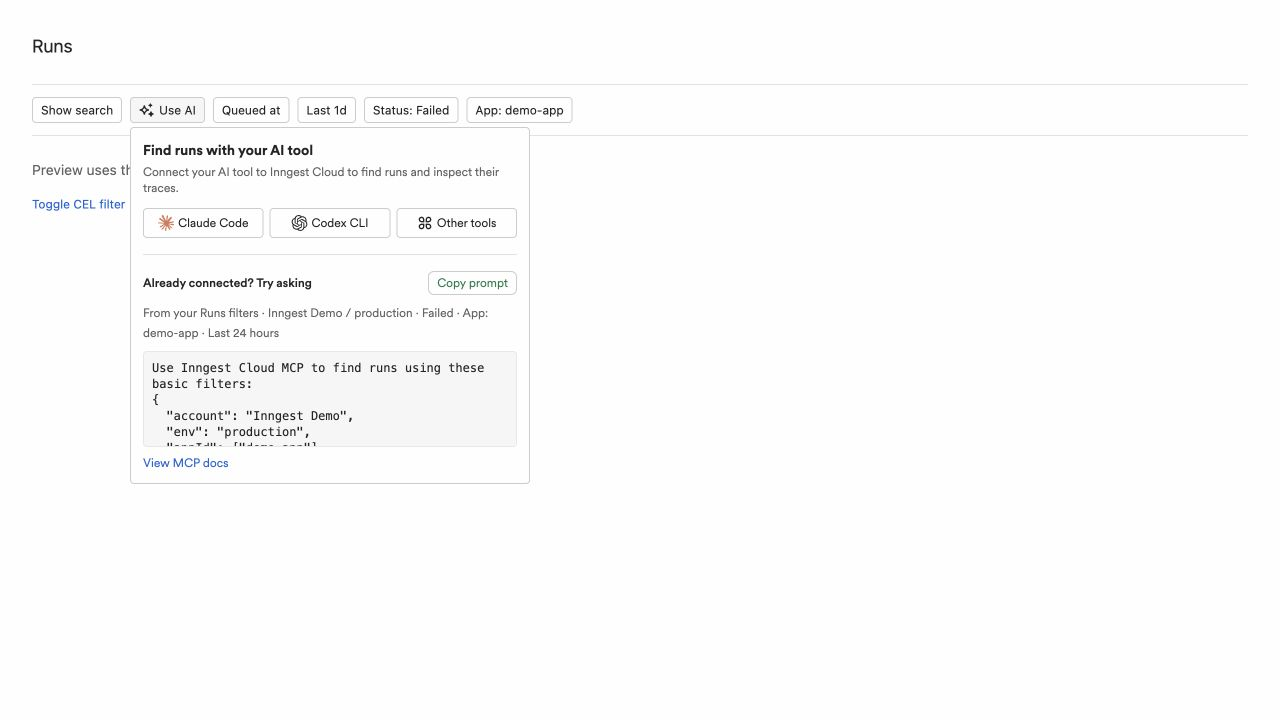
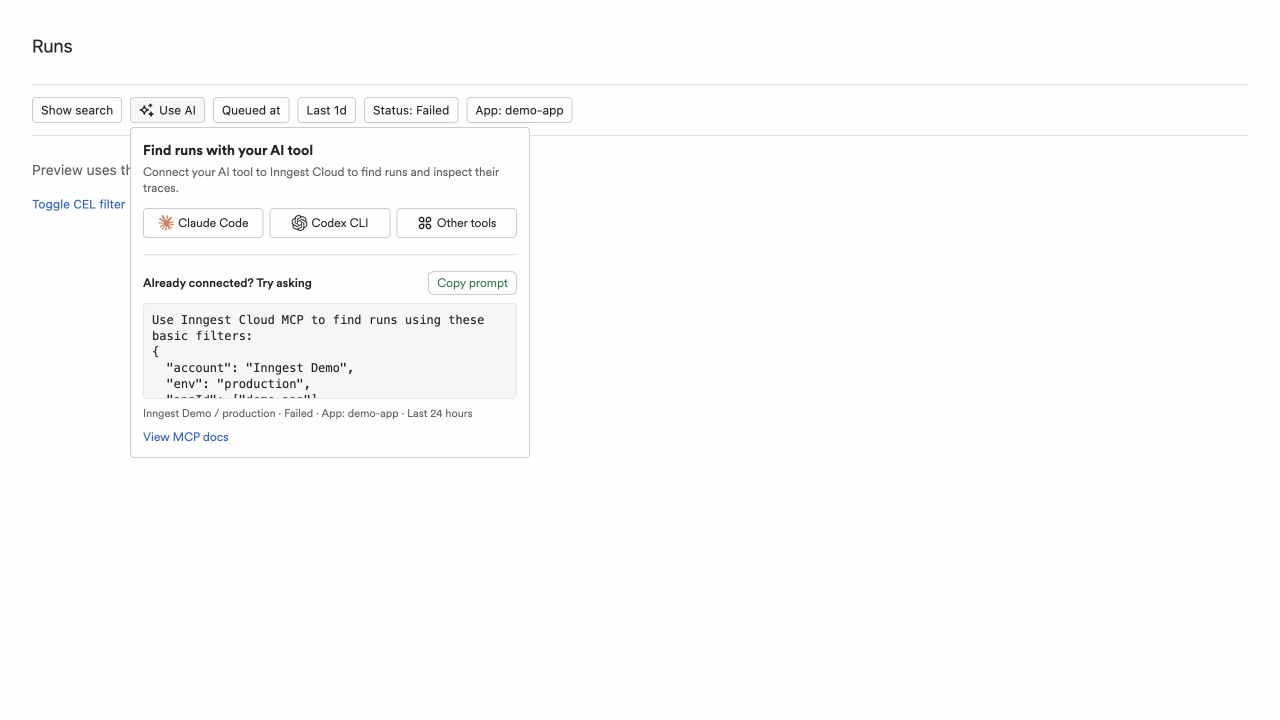
style(dashboard): place compact filter summary below AI prompt

Changed region(s): [[0.0938, 0.4278, 0.375, 0.6722]]

diff --git a/ui/apps/dashboard/src/components/Runs/AIAssist/prompt.test.ts b/ui/apps/dashboard/src/components/Runs/AIAssist/prompt.test.ts
@@ -26,7 +26,7 @@ function build(
 describe('basic run discovery prompts', () => {
   it('uses a precise default window', () => {
     expect(build({}).summary).toBe(
-      'From your Runs filters · Example account / staging · All statuses · All apps · Last 24 hours',
+      'Example account / staging · All statuses · All apps · Last 24 hours',
     );
     expect(payload(build({}).prompt!)).toMatchObject({
       timeField: 'queuedAt',
@@ -76,7 +76,7 @@ describe('basic run discovery prompts', () => {
       timeField: 'STARTED_AT',
     });
     expect(result.summary).toBe(
-      'From your Runs filters · Example account / staging · Failed, Cancelled · Apps: billing, orders · Started at · Last 2 hours',
+      'Example account / staging · Failed, Cancelled · Apps: billing, orders · Started at · Last 2 hours',
     );
     expect(payload(result.prompt!)).toEqual({
       account: 'Example account',

diff --git a/ui/apps/dashboard/src/components/Runs/AIAssist/RunAIAssistPopover.tsx b/ui/apps/dashboard/src/components/Runs/AIAssist/RunAIAssistPopover.tsx
@@ -164,9 +164,6 @@ export function RunAIAssistPopover({
             size="small"
           />
         </div>
-        {!message && result.summary && (
-          <p className="text-muted mb-2 text-xs leading-5">{result.summary}</p>
-        )}
         {message ? (
           <p role="status" className="text-muted rounded border p-2 text-xs">
             {message}
@@ -179,6 +176,11 @@ export function RunAIAssistPopover({
           >
             {result.prompt}
           </pre>
+        )}
+        {!message && result.summary && (
+          <p className="text-muted mt-1.5 text-[11px] leading-4">
+            {result.summary}
+          </p>
         )}
         {metadataError && !metadataLoading && (
           <Button

diff --git a/ui/apps/dashboard/src/components/Runs/AIAssist/prompt.ts b/ui/apps/dashboard/src/components/Runs/AIAssist/prompt.ts
@@ -163,7 +163,6 @@ export function buildRunDiscoveryPrompt(
       }`
     : `${formatInTimeZone(from, 'UTC', 'MMM d, yyyy HH:mm')} – ${formatInTimeZone(until, 'UTC', 'MMM d, yyyy HH:mm')} UTC`;
   const summary = [
-    'From your Runs filters',
     `${context.account} / ${context.environmentSlug}`,
     selectedStatuses.length
       ? selectedStatuses

diff --git a/docs/runs-ai-assist.md b/docs/runs-ai-assist.md
@@ -2,7 +2,7 @@
 
 Use AI sits beside Show search in Cloud Runs. Client buttons expand a copyable command block and short sign-in note, without numbered steps. Codex add and login commands copy together; the setup guide opens the Cloud connection documentation in a new tab. The MCP documentation link also opens a new tab. The local Dev Server is unchanged. There is no feature flag.
 
-A muted line below “Try asking” summarizes the validated Runs filters: account/environment, statuses, apps, optional function/time field, and time range. It is hidden when the prompt is blocked or context is unavailable.
+A small muted line below the prompt summarizes the validated Runs filters: account/environment, statuses, apps, optional function/time field, and time range. It is hidden when the prompt is blocked or context is unavailable.
 
 The scrollable preview shows exactly what Copy prompt copies: API filter IDs, UTC boundaries frozen when the popover opens, and full investigation instructions. Reopening refreshes relative time bounds. Unsupported filters block copying. Clipboard failures expose selectable full text. Both copy actions share one handler.
 
